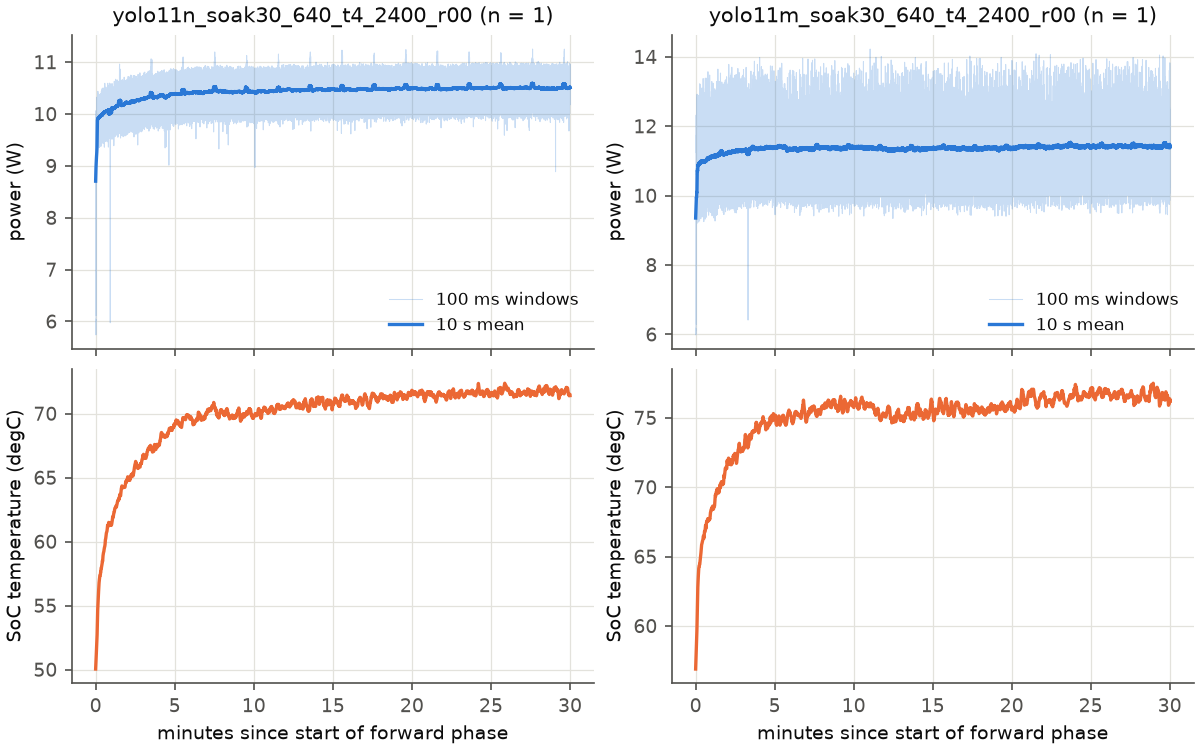
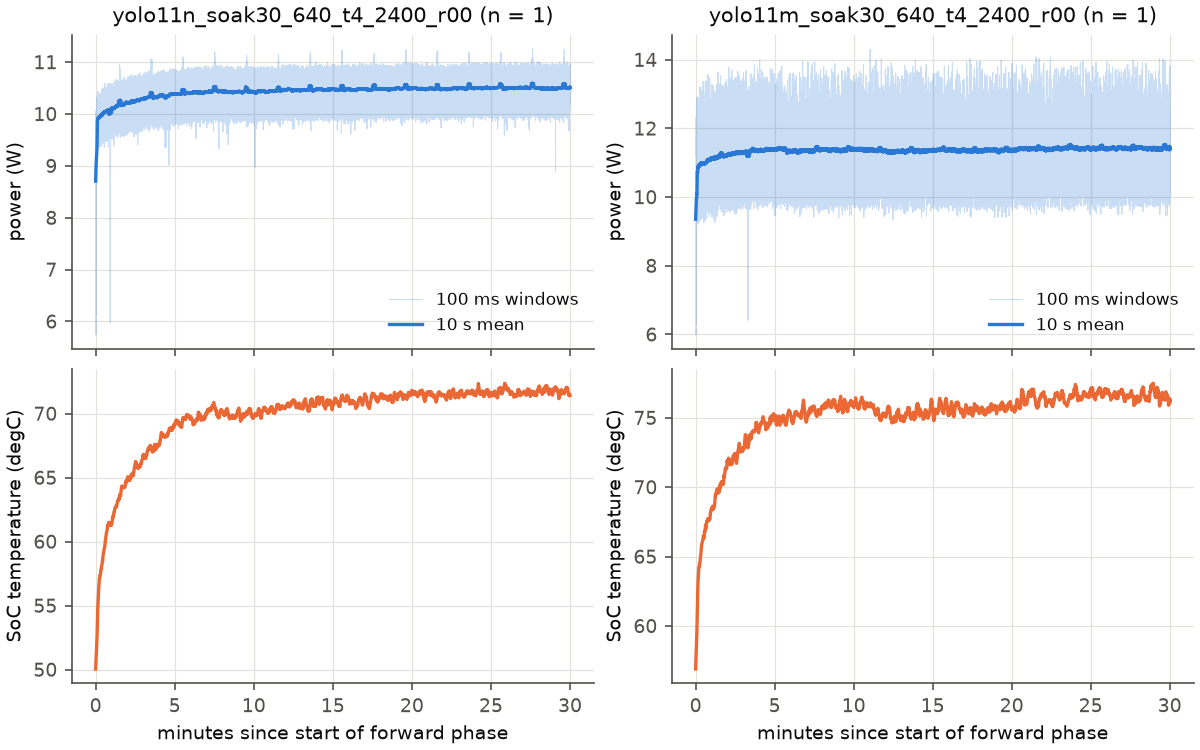
docs(analytics): eda.md regenerated on the corrected R2 windows

diff --git a/analytics/reports/eda.md b/analytics/reports/eda.md
@@ -237,15 +237,15 @@ Within the measured frames (iter >= 1), share of frame energy / time by step. A 
 
 ### 6.1 Power against temperature in forward windows
 
-Per configuration (Mode A key plus governor, fan mode and the soak / serve / concurrent / input tag), ordinary least squares of the 100 ms window power `P_W` on `temp_C` (1 Hz sysfs temperature, latest reading at the window end) over its forward-phase windows. `pooled` uses all the configuration's cells on raw values; `within` subtracts each cell's means first. The standard errors treat windows as independent; consecutive 100 ms windows are strongly autocorrelated (section 7.3), so they are lower bounds. Temperature is confounded with elapsed time and with the clock-pinned load, so a slope is a description, not a causal estimate. Configurations whose forward windows span less than 2 degC do not identify a slope and are excluded from the family summaries (still listed in the detail table below). n = 161 cells (dataset v2 (nov2026 rig) 161 cells); 50 configurations, 65851 forward windows; dataset v2 (nov2026 rig; v1 has no counters or sysfs).
+Per configuration (Mode A key plus governor, fan mode and the soak / serve / concurrent / input tag), ordinary least squares of the 100 ms window power `P_W` on `temp_C` (1 Hz sysfs temperature, latest reading at the window end) over its forward-phase windows. `pooled` uses all the configuration's cells on raw values; `within` subtracts each cell's means first. The standard errors treat windows as independent; consecutive 100 ms windows are strongly autocorrelated (section 7.3), so they are lower bounds. Temperature is confounded with elapsed time and with the clock-pinned load, so a slope is a description, not a causal estimate. Configurations whose forward windows span less than 2 degC do not identify a slope and are excluded from the family summaries (still listed in the detail table below). n = 161 cells (dataset v2 (nov2026 rig) 161 cells); 50 configurations, 65848 forward windows; dataset v2 (nov2026 rig; v1 has no counters or sysfs).
 
 | family | configs | used | cells | windows | pooled med | pooled min | pooled max | within med | within min | within max | % pooled > 0 |
 |---|---|---|---|---|---|---|---|---|---|---|---|
-| A | 12 | 12 | 44 | 12249 | +0.166 | +0.097 | +0.215 | +0.207 | +0.169 | +0.232 | 100 |
-| A-input | 1 | 1 | 6 | 618 | +0.251 | +0.251 | +0.251 | +0.292 | +0.292 | +0.292 | 100 |
+| A | 12 | 12 | 44 | 12248 | +0.166 | +0.097 | +0.216 | +0.207 | +0.169 | +0.232 | 100 |
+| A-input | 1 | 1 | 6 | 617 | +0.251 | +0.251 | +0.251 | +0.293 | +0.293 | +0.293 | 100 |
 | B | 5 | 5 | 15 | 1681 | +0.165 | +0.117 | +0.210 | +0.290 | +0.217 | +0.301 | 100 |
 | C | 20 | 20 | 60 | 11048 | +0.199 | +0.053 | +0.293 | +0.256 | +0.125 | +0.525 | 100 |
-| D | 10 | 10 | 34 | 4587 | +0.240 | +0.154 | +0.319 | +0.262 | +0.192 | +0.323 | 100 |
+| D | 10 | 10 | 34 | 4586 | +0.240 | +0.154 | +0.319 | +0.262 | +0.192 | +0.323 | 100 |
 | soak | 2 | 2 | 2 | 35668 | +0.037 | +0.030 | +0.045 | +0.037 | +0.030 | +0.045 | 100 |
 
 Slopes over the 50 identified configurations (W/degC): pooled +0.030 to +0.319 (median +0.181), within-cell +0.030 to +0.525 (median +0.233).
@@ -260,7 +260,7 @@ Per configuration (slope W/degC, standard error, forward windows, cells, tempera
 | C | yolo11m\|yolo11m\|fp32\|480\|1\|4\|2400\|pinned\|full | 3 | 611 | +0.193 | 0.012 | +0.210 | 0.012 | 16.0 |
 | A | yolo11m\|yolo11m\|fp32\|640\|1\|4\|1500\|pinned\|full | 3 | 1263 | +0.148 | 0.009 | +0.179 | 0.010 | 8.2 |
 | A | yolo11m\|yolo11m\|fp32\|640\|1\|4\|2000\|pinned\|full | 3 | 1105 | +0.159 | 0.009 | +0.169 | 0.009 | 13.8 |
-| A | yolo11m\|yolo11m\|fp32\|640\|1\|4\|2400\|pinned\|full | 5 | 1711 | +0.173 | 0.008 | +0.184 | 0.008 | 18.1 |
+| A | yolo11m\|yolo11m\|fp32\|640\|1\|4\|2400\|pinned\|full | 5 | 1710 | +0.173 | 0.008 | +0.184 | 0.008 | 18.1 |
 | soak | yolo11m\|yolo11m\|fp32\|640\|1\|4\|2400\|pinned\|full\|soak_minutes=30.0 | 1 | 17826 | +0.030 | 0.003 | +0.030 | 0.003 | 26.9 |
 | C | yolo11m\|yolo11m\|fp32\|960\|1\|4\|2400\|pinned\|full | 3 | 2339 | +0.120 | 0.008 | +0.125 | 0.009 | 18.1 |
 | B | yolo11n\|yolo11n_fp16\|fp16\|640\|1\|4\|2400\|pinned\|full | 3 | 382 | +0.210 | 0.013 | +0.258 | 0.013 | 17.0 |
@@ -275,13 +275,13 @@ Per configuration (slope W/degC, standard error, forward windows, cells, tempera
 | C | yolo11n\|yolo11n\|fp32\|640\|1\|2\|2400\|pinned\|full | 3 | 331 | +0.225 | 0.014 | +0.245 | 0.014 | 10.4 |
 | D | yolo11n\|yolo11n\|fp32\|640\|1\|4\|2400\|ondemand\|full | 5 | 508 | +0.237 | 0.010 | +0.249 | 0.009 | 14.9 |
 | D | yolo11n\|yolo11n\|fp32\|640\|1\|4\|2400\|pinned\|auto | 3 | 304 | +0.295 | 0.015 | +0.305 | 0.015 | 12.1 |
-| A-input | yolo11n\|yolo11n\|fp32\|640\|1\|4\|2400\|pinned\|full | 6 | 618 | +0.251 | 0.011 | +0.292 | 0.011 | 15.9 |
+| A-input | yolo11n\|yolo11n\|fp32\|640\|1\|4\|2400\|pinned\|full | 6 | 617 | +0.251 | 0.011 | +0.293 | 0.011 | 15.9 |
 | D | yolo11n\|yolo11n\|fp32\|640\|1\|4\|2400\|pinned\|full\|concurrent_mode=model | 3 | 584 | +0.181 | 0.008 | +0.210 | 0.008 | 14.3 |
 | D | yolo11n\|yolo11n\|fp32\|640\|1\|4\|2400\|pinned\|full\|concurrent_mode=spinner | 3 | 462 | +0.219 | 0.010 | +0.246 | 0.010 | 17.0 |
 | D | yolo11n\|yolo11n\|fp32\|640\|1\|4\|2400\|pinned\|full\|input=stream | 3 | 480 | +0.166 | 0.010 | +0.242 | 0.011 | 18.2 |
 | D | yolo11n\|yolo11n\|fp32\|640\|1\|4\|2400\|pinned\|full\|serve_fps=1.0 | 3 | 305 | +0.319 | 0.015 | +0.323 | 0.015 | 11.6 |
 | D | yolo11n\|yolo11n\|fp32\|640\|1\|4\|2400\|pinned\|full\|serve_fps=15.0 | 3 | 305 | +0.268 | 0.014 | +0.276 | 0.014 | 13.2 |
-| D | yolo11n\|yolo11n\|fp32\|640\|1\|4\|2400\|pinned\|full\|serve_fps=5.0 | 3 | 306 | +0.243 | 0.014 | +0.302 | 0.014 | 14.9 |
+| D | yolo11n\|yolo11n\|fp32\|640\|1\|4\|2400\|pinned\|full\|serve_fps=5.0 | 3 | 305 | +0.244 | 0.014 | +0.303 | 0.014 | 14.9 |
 | soak | yolo11n\|yolo11n\|fp32\|640\|1\|4\|2400\|pinned\|full\|soak_minutes=30.0 | 1 | 17842 | +0.045 | 0.001 | +0.045 | 0.001 | 28.6 |
 | D | yolo11n\|yolo11n\|fp32\|640\|1\|4\|2400\|pinned\|off | 3 | 304 | +0.284 | 0.015 | +0.284 | 0.016 | 11.5 |
 | C | yolo11n\|yolo11n\|fp32\|640\|2\|4\|2400\|pinned\|full | 3 | 304 | +0.289 | 0.018 | +0.316 | 0.019 | 12.1 |
@@ -302,8 +302,8 @@ Per configuration (slope W/degC, standard error, forward windows, cells, tempera
 | C | yolo11s\|yolo11s\|fp32\|960\|1\|4\|2400\|pinned\|full | 3 | 1394 | +0.111 | 0.007 | +0.139 | 0.008 | 20.3 |
 | A | yolov8m\|yolov8m\|fp32\|640\|1\|4\|1500\|pinned\|full | 3 | 1068 | +0.097 | 0.006 | +0.207 | 0.008 | 11.5 |
 | A | yolov8m\|yolov8m\|fp32\|640\|1\|4\|2000\|pinned\|full | 3 | 893 | +0.181 | 0.009 | +0.185 | 0.009 | 13.2 |
-| A | yolov8m\|yolov8m\|fp32\|640\|1\|4\|2400\|pinned\|full | 5 | 1330 | +0.215 | 0.008 | +0.219 | 0.008 | 19.8 |
-| A | yolov8s\|yolov8s\|fp32\|640\|1\|4\|1500\|pinned\|full | 3 | 769 | +0.130 | 0.007 | +0.226 | 0.008 | 9.9 |
+| A | yolov8m\|yolov8m\|fp32\|640\|1\|4\|2400\|pinned\|full | 5 | 1329 | +0.216 | 0.008 | +0.219 | 0.008 | 19.8 |
+| A | yolov8s\|yolov8s\|fp32\|640\|1\|4\|1500\|pinned\|full | 3 | 770 | +0.130 | 0.007 | +0.226 | 0.008 | 9.9 |
 | A | yolov8s\|yolov8s\|fp32\|640\|1\|4\|2000\|pinned\|full | 3 | 653 | +0.205 | 0.009 | +0.206 | 0.010 | 13.8 |
 | A | yolov8s\|yolov8s\|fp32\|640\|1\|4\|2400\|pinned\|full | 5 | 988 | +0.185 | 0.008 | +0.215 | 0.008 | 21.5 |
 
@@ -313,7 +313,7 @@ The two 30-minute soak cells (yolo11n and yolo11m, 640 px, 4 threads, 2400 MHz, 
 
 | cell | n_windows | duration_s | t95_s | final_P_W | cold_P_W | hot_P_W | delta_P_W | delta_pct | cold_T_C | hot_T_C |
 |---|---|---|---|---|---|---|---|---|---|---|
-| yolo11n_soak30_640_t4_2400_r00 | 17842 | 1800 | 23 | 10.507 | 9.891 | 10.507 | +0.616 | +6.22 | 58.3 | 71.7 |
+| yolo11n_soak30_640_t4_2400_r00 | 17842 | 1800 | 23 | 10.506 | 9.891 | 10.506 | +0.615 | +6.22 | 58.3 | 71.7 |
 | yolo11m_soak30_640_t4_2400_r00 | 17826 | 1801 | 8 | 11.424 | 10.857 | 11.424 | +0.567 | +5.22 | 65.4 | 76.6 |
 
 ![Soak power and temperature](fig/eda_soak.png)
@@ -334,22 +334,22 @@ Residual of each cell's energy per image from its configuration mean (relative, 
 
 Spearman and Pearson correlation of `P_W` with each counter feature, per phase group (`forward`, `idle` = `baseline_A` + `baseline_B`, `serve`, `gap`) and pooled over the four. `raw` uses all windows; `dm` subtracts, for each cell and phase, the mean of both variables first (so only within-cell, within-phase co-movement remains). Ratio features (`ipc`, `cache_miss_rate`, `branch_mpki`, `stall_frac`, `llc_mpki`) use counted windows only (undefined otherwise); rate features use every window. `n raw` / `n dm` are windows. A blank is an undefined correlation: `ctx_sw_rate` is 0 in every window (the context-switch counter never ticks for the attached process), and `freq_mhz` is constant within a pinned-clock cell and phase. Windows: n = 161 cells (dataset v2 (nov2026 rig) 161 cells); dataset v2 (nov2026 rig; v1 has no counters or sysfs). **Perf overhead caveat**: perf counters were enabled in every v2 cell except `ref`, so power measured here includes the cost of counting (section 7.2).
 
-**forward** (65851 windows at most, 161 cells):
+**forward** (65848 windows at most, 161 cells):
 
 | feature | n cells | n raw | Spearman raw | Pearson raw | n dm | Spearman dm | Pearson dm |
 |---|---|---|---|---|---|---|---|
-| busy | 161 | 65851 | +0.350 | +0.575 | 65851 | +0.428 | +0.694 |
-| cycles_rate | 161 | 65851 | +0.574 | +0.816 | 65851 | +0.597 | +0.755 |
-| instr_rate | 161 | 65851 | +0.594 | +0.586 | 65851 | +0.874 | +0.850 |
-| ipc | 161 | 65851 | +0.145 | +0.004 | 65851 | +0.778 | +0.624 |
-| cache_miss_rate | 161 | 65851 | -0.069 | +0.014 | 65851 | -0.457 | -0.251 |
-| branch_mpki | 161 | 65851 | -0.286 | -0.471 | 65851 | -0.241 | -0.608 |
-| stall_frac | 161 | 65851 | +0.078 | +0.247 | 65851 | -0.604 | -0.290 |
-| llc_mpki | 161 | 65851 | -0.148 | -0.120 | 65851 | -0.602 | -0.380 |
-| ctx_sw_rate | 161 | 65851 |  |  | 65851 |  |  |
-| pf_rate | 161 | 65851 | +0.073 | +0.060 | 65851 | -0.278 | -0.186 |
-| freq_mhz | 161 | 65851 | +0.495 | +0.645 | 65851 | +0.058 | +0.103 |
-| temp_C | 161 | 65851 | +0.706 | +0.772 | 65851 | +0.205 | +0.403 |
+| busy | 161 | 65848 | +0.350 | +0.575 | 65848 | +0.428 | +0.694 |
+| cycles_rate | 161 | 65848 | +0.574 | +0.816 | 65848 | +0.597 | +0.755 |
+| instr_rate | 161 | 65848 | +0.594 | +0.586 | 65848 | +0.874 | +0.850 |
+| ipc | 161 | 65848 | +0.145 | +0.004 | 65848 | +0.778 | +0.624 |
+| cache_miss_rate | 161 | 65848 | -0.069 | +0.014 | 65848 | -0.457 | -0.251 |
+| branch_mpki | 161 | 65848 | -0.286 | -0.471 | 65848 | -0.241 | -0.608 |
+| stall_frac | 161 | 65848 | +0.078 | +0.247 | 65848 | -0.604 | -0.290 |
+| llc_mpki | 161 | 65848 | -0.148 | -0.120 | 65848 | -0.602 | -0.380 |
+| ctx_sw_rate | 161 | 65848 |  |  | 65848 |  |  |
+| pf_rate | 161 | 65848 | +0.073 | +0.060 | 65848 | -0.278 | -0.186 |
+| freq_mhz | 161 | 65848 | +0.495 | +0.645 | 65848 | +0.058 | +0.103 |
+| temp_C | 161 | 65848 | +0.706 | +0.772 | 65848 | +0.205 | +0.403 |
 
 **idle** (7204 windows at most, 161 cells):
 
@@ -358,66 +358,66 @@ Spearman and Pearson correlation of `P_W` with each counter feature, per phase g
 | busy | 161 | 7203 | +0.309 | +0.696 | 7203 | +0.842 | +0.930 |
 | cycles_rate | 161 | 7204 | +0.318 | +0.722 | 7204 | +0.842 | +0.938 |
 | instr_rate | 161 | 7203 | +0.314 | +0.639 | 7203 | +0.792 | +0.804 |
-| ipc | 161 | 1948 | +0.156 | +0.256 | 1948 | +0.354 | +0.283 |
-| cache_miss_rate | 161 | 1948 | -0.147 | +0.177 | 1948 | +0.003 | +0.153 |
-| branch_mpki | 161 | 1948 | -0.407 | -0.434 | 1948 | -0.312 | -0.358 |
-| stall_frac | 161 | 1948 | +0.246 | +0.550 | 1948 | +0.202 | +0.428 |
-| llc_mpki | 161 | 1948 | -0.247 | -0.104 | 1948 | -0.172 | -0.151 |
+| ipc | 161 | 1948 | +0.156 | +0.256 | 1948 | +0.355 | +0.283 |
+| cache_miss_rate | 161 | 1948 | -0.148 | +0.176 | 1948 | +0.002 | +0.154 |
+| branch_mpki | 161 | 1948 | -0.405 | -0.433 | 1948 | -0.311 | -0.359 |
+| stall_frac | 161 | 1948 | +0.246 | +0.550 | 1948 | +0.201 | +0.429 |
+| llc_mpki | 161 | 1948 | -0.247 | -0.104 | 1948 | -0.170 | -0.151 |
 | ctx_sw_rate | 161 | 7203 |  |  | 7203 |  |  |
-| pf_rate | 161 | 7203 | +0.292 | +0.406 | 7203 | +0.582 | +0.590 |
+| pf_rate | 161 | 7203 | +0.291 | +0.406 | 7203 | +0.582 | +0.590 |
 | freq_mhz | 161 | 7204 | +0.632 | +0.576 | 7204 | -0.010 | -0.017 |
 | temp_C | 161 | 7204 | +0.636 | +0.429 | 7204 | -0.019 | -0.206 |
 
-**serve** (18701 windows at most, 161 cells):
+**serve** (18704 windows at most, 161 cells):
 
 | feature | n cells | n raw | Spearman raw | Pearson raw | n dm | Spearman dm | Pearson dm |
 |---|---|---|---|---|---|---|---|
-| busy | 161 | 18701 | +0.588 | +0.793 | 18701 | +0.851 | +0.919 |
-| cycles_rate | 161 | 18701 | +0.849 | +0.912 | 18701 | +0.887 | +0.946 |
-| instr_rate | 161 | 18701 | +0.784 | +0.803 | 18701 | +0.924 | +0.914 |
-| ipc | 161 | 17093 | +0.127 | +0.101 | 17093 | +0.684 | +0.575 |
-| cache_miss_rate | 161 | 17093 | -0.018 | +0.013 | 17093 | -0.303 | -0.128 |
-| branch_mpki | 161 | 17093 | -0.203 | -0.313 | 17093 | -0.238 | -0.382 |
-| stall_frac | 161 | 17093 | +0.134 | +0.205 | 17093 | -0.458 | -0.188 |
-| llc_mpki | 161 | 17093 | -0.239 | -0.173 | 17093 | -0.535 | -0.303 |
-| ctx_sw_rate | 161 | 18701 |  |  | 18701 |  |  |
-| pf_rate | 161 | 18700 | +0.394 | +0.307 | 18700 | +0.196 | +0.252 |
-| freq_mhz | 161 | 18701 | +0.406 | +0.428 | 18701 | +0.044 | +0.032 |
-| temp_C | 161 | 18701 | +0.647 | +0.624 | 18701 | +0.018 | +0.007 |
+| busy | 161 | 18704 | +0.588 | +0.793 | 18704 | +0.851 | +0.919 |
+| cycles_rate | 161 | 18704 | +0.849 | +0.912 | 18704 | +0.887 | +0.946 |
+| instr_rate | 161 | 18704 | +0.784 | +0.803 | 18704 | +0.924 | +0.914 |
+| ipc | 161 | 17096 | +0.127 | +0.101 | 17096 | +0.684 | +0.575 |
+| cache_miss_rate | 161 | 17096 | -0.018 | +0.013 | 17096 | -0.303 | -0.128 |
+| branch_mpki | 161 | 17096 | -0.203 | -0.312 | 17096 | -0.239 | -0.381 |
+| stall_frac | 161 | 17096 | +0.134 | +0.205 | 17096 | -0.458 | -0.188 |
+| llc_mpki | 161 | 17096 | -0.239 | -0.173 | 17096 | -0.534 | -0.303 |
+| ctx_sw_rate | 161 | 18704 |  |  | 18704 |  |  |
+| pf_rate | 161 | 18703 | +0.394 | +0.307 | 18703 | +0.196 | +0.252 |
+| freq_mhz | 161 | 18704 | +0.406 | +0.429 | 18704 | +0.044 | +0.032 |
+| temp_C | 161 | 18704 | +0.647 | +0.624 | 18704 | +0.018 | +0.007 |
 
-**gap** (36267 windows at most, 34 cells):
-
-| feature | n cells | n raw | Spearman raw | Pearson raw | n dm | Spearman dm | Pearson dm |
-|---|---|---|---|---|---|---|---|
-| busy | 34 | 36260 | +0.397 | +0.774 | 36260 | +0.822 | +0.940 |
-| cycles_rate | 34 | 36263 | +0.410 | +0.822 | 36263 | +0.882 | +0.966 |
-| instr_rate | 34 | 36263 | +0.405 | +0.779 | 36263 | +0.848 | +0.928 |
-| ipc | 34 | 14448 | +0.410 | +0.345 | 14448 | +0.518 | +0.446 |
-| cache_miss_rate | 34 | 14449 | +0.046 | +0.135 | 14449 | +0.184 | +0.125 |
-| branch_mpki | 34 | 14448 | -0.586 | -0.446 | 14448 | -0.704 | -0.498 |
-| stall_frac | 34 | 14446 | +0.280 | +0.194 | 14446 | +0.390 | +0.179 |
-| llc_mpki | 34 | 14448 | -0.423 | -0.116 | 14448 | -0.479 | -0.135 |
-| ctx_sw_rate | 34 | 36262 |  |  | 36262 |  |  |
-| pf_rate | 34 | 36262 | +0.367 | +0.461 | 36262 | +0.685 | +0.544 |
-| freq_mhz | 34 | 36267 | +0.625 | +0.517 | 36267 |  |  |
-| temp_C | 34 | 36267 | +0.701 | +0.436 | 36267 | +0.128 | -0.035 |
-
-**pooled** (128023 windows at most, 161 cells):
+**gap** (36241 windows at most, 34 cells):
 
 | feature | n cells | n raw | Spearman raw | Pearson raw | n dm | Spearman dm | Pearson dm |
 |---|---|---|---|---|---|---|---|
-| busy | 161 | 128015 | +0.798 | +0.909 | 128015 | +0.643 | +0.816 |
-| cycles_rate | 161 | 128019 | +0.872 | +0.954 | 128019 | +0.716 | +0.857 |
-| instr_rate | 161 | 128018 | +0.865 | +0.892 | 128018 | +0.881 | +0.875 |
-| ipc | 161 | 99340 | +0.270 | +0.250 | 99340 | +0.709 | +0.527 |
-| cache_miss_rate | 161 | 99341 | +0.186 | +0.091 | 99341 | -0.305 | -0.134 |
-| branch_mpki | 161 | 99340 | -0.514 | -0.601 | 99340 | -0.272 | -0.312 |
-| stall_frac | 161 | 99338 | +0.396 | +0.421 | 99338 | -0.405 | -0.099 |
-| llc_mpki | 161 | 99340 | -0.255 | -0.217 | 99340 | -0.449 | -0.161 |
-| ctx_sw_rate | 161 | 128017 |  |  | 128017 |  |  |
-| pf_rate | 161 | 128016 | +0.688 | +0.484 | 128016 | -0.079 | -0.004 |
-| freq_mhz | 161 | 128023 | +0.381 | +0.361 | 128023 | +0.047 | +0.049 |
-| temp_C | 161 | 128023 | +0.790 | +0.767 | 128023 | +0.136 | +0.227 |
+| busy | 34 | 36234 | +0.393 | +0.770 | 36234 | +0.829 | +0.940 |
+| cycles_rate | 34 | 36237 | +0.406 | +0.818 | 36237 | +0.885 | +0.966 |
+| instr_rate | 34 | 36237 | +0.401 | +0.774 | 36237 | +0.858 | +0.928 |
+| ipc | 34 | 14422 | +0.404 | +0.338 | 14422 | +0.515 | +0.439 |
+| cache_miss_rate | 34 | 14423 | +0.050 | +0.142 | 14423 | +0.194 | +0.134 |
+| branch_mpki | 34 | 14422 | -0.581 | -0.443 | 14422 | -0.701 | -0.495 |
+| stall_frac | 34 | 14420 | +0.284 | +0.198 | 14420 | +0.393 | +0.184 |
+| llc_mpki | 34 | 14422 | -0.418 | -0.113 | 14422 | -0.474 | -0.133 |
+| ctx_sw_rate | 34 | 36236 |  |  | 36236 |  |  |
+| pf_rate | 34 | 36236 | +0.367 | +0.468 | 36236 | +0.695 | +0.555 |
+| freq_mhz | 34 | 36241 | +0.626 | +0.523 | 36241 |  |  |
+| temp_C | 34 | 36241 | +0.704 | +0.441 | 36241 | +0.127 | -0.035 |
+
+**pooled** (127997 windows at most, 161 cells):
+
+| feature | n cells | n raw | Spearman raw | Pearson raw | n dm | Spearman dm | Pearson dm |
+|---|---|---|---|---|---|---|---|
+| busy | 161 | 127989 | +0.798 | +0.909 | 127989 | +0.641 | +0.815 |
+| cycles_rate | 161 | 127993 | +0.872 | +0.954 | 127993 | +0.715 | +0.856 |
+| instr_rate | 161 | 127992 | +0.865 | +0.892 | 127992 | +0.881 | +0.875 |
+| ipc | 161 | 99314 | +0.272 | +0.252 | 99314 | +0.709 | +0.526 |
+| cache_miss_rate | 161 | 99315 | +0.186 | +0.091 | 99315 | -0.305 | -0.133 |
+| branch_mpki | 161 | 99314 | -0.514 | -0.602 | 99314 | -0.271 | -0.310 |
+| stall_frac | 161 | 99312 | +0.396 | +0.421 | 99312 | -0.406 | -0.098 |
+| llc_mpki | 161 | 99314 | -0.257 | -0.218 | 99314 | -0.449 | -0.160 |
+| ctx_sw_rate | 161 | 127991 |  |  | 127991 |  |  |
+| pf_rate | 161 | 127990 | +0.688 | +0.484 | 127990 | -0.080 | -0.004 |
+| freq_mhz | 161 | 127997 | +0.381 | +0.361 | 127997 | +0.047 | +0.049 |
+| temp_C | 161 | 127997 | +0.790 | +0.767 | 127997 | +0.136 | +0.227 |
 
 Forward phase, largest within-cell |Spearman|: `instr_rate` raw +0.59 / dm +0.87; `ipc` raw +0.15 / dm +0.78; `stall_frac` raw +0.08 / dm -0.60; `llc_mpki` raw -0.15 / dm -0.60; `cycles_rate` raw +0.57 / dm +0.60.
 
